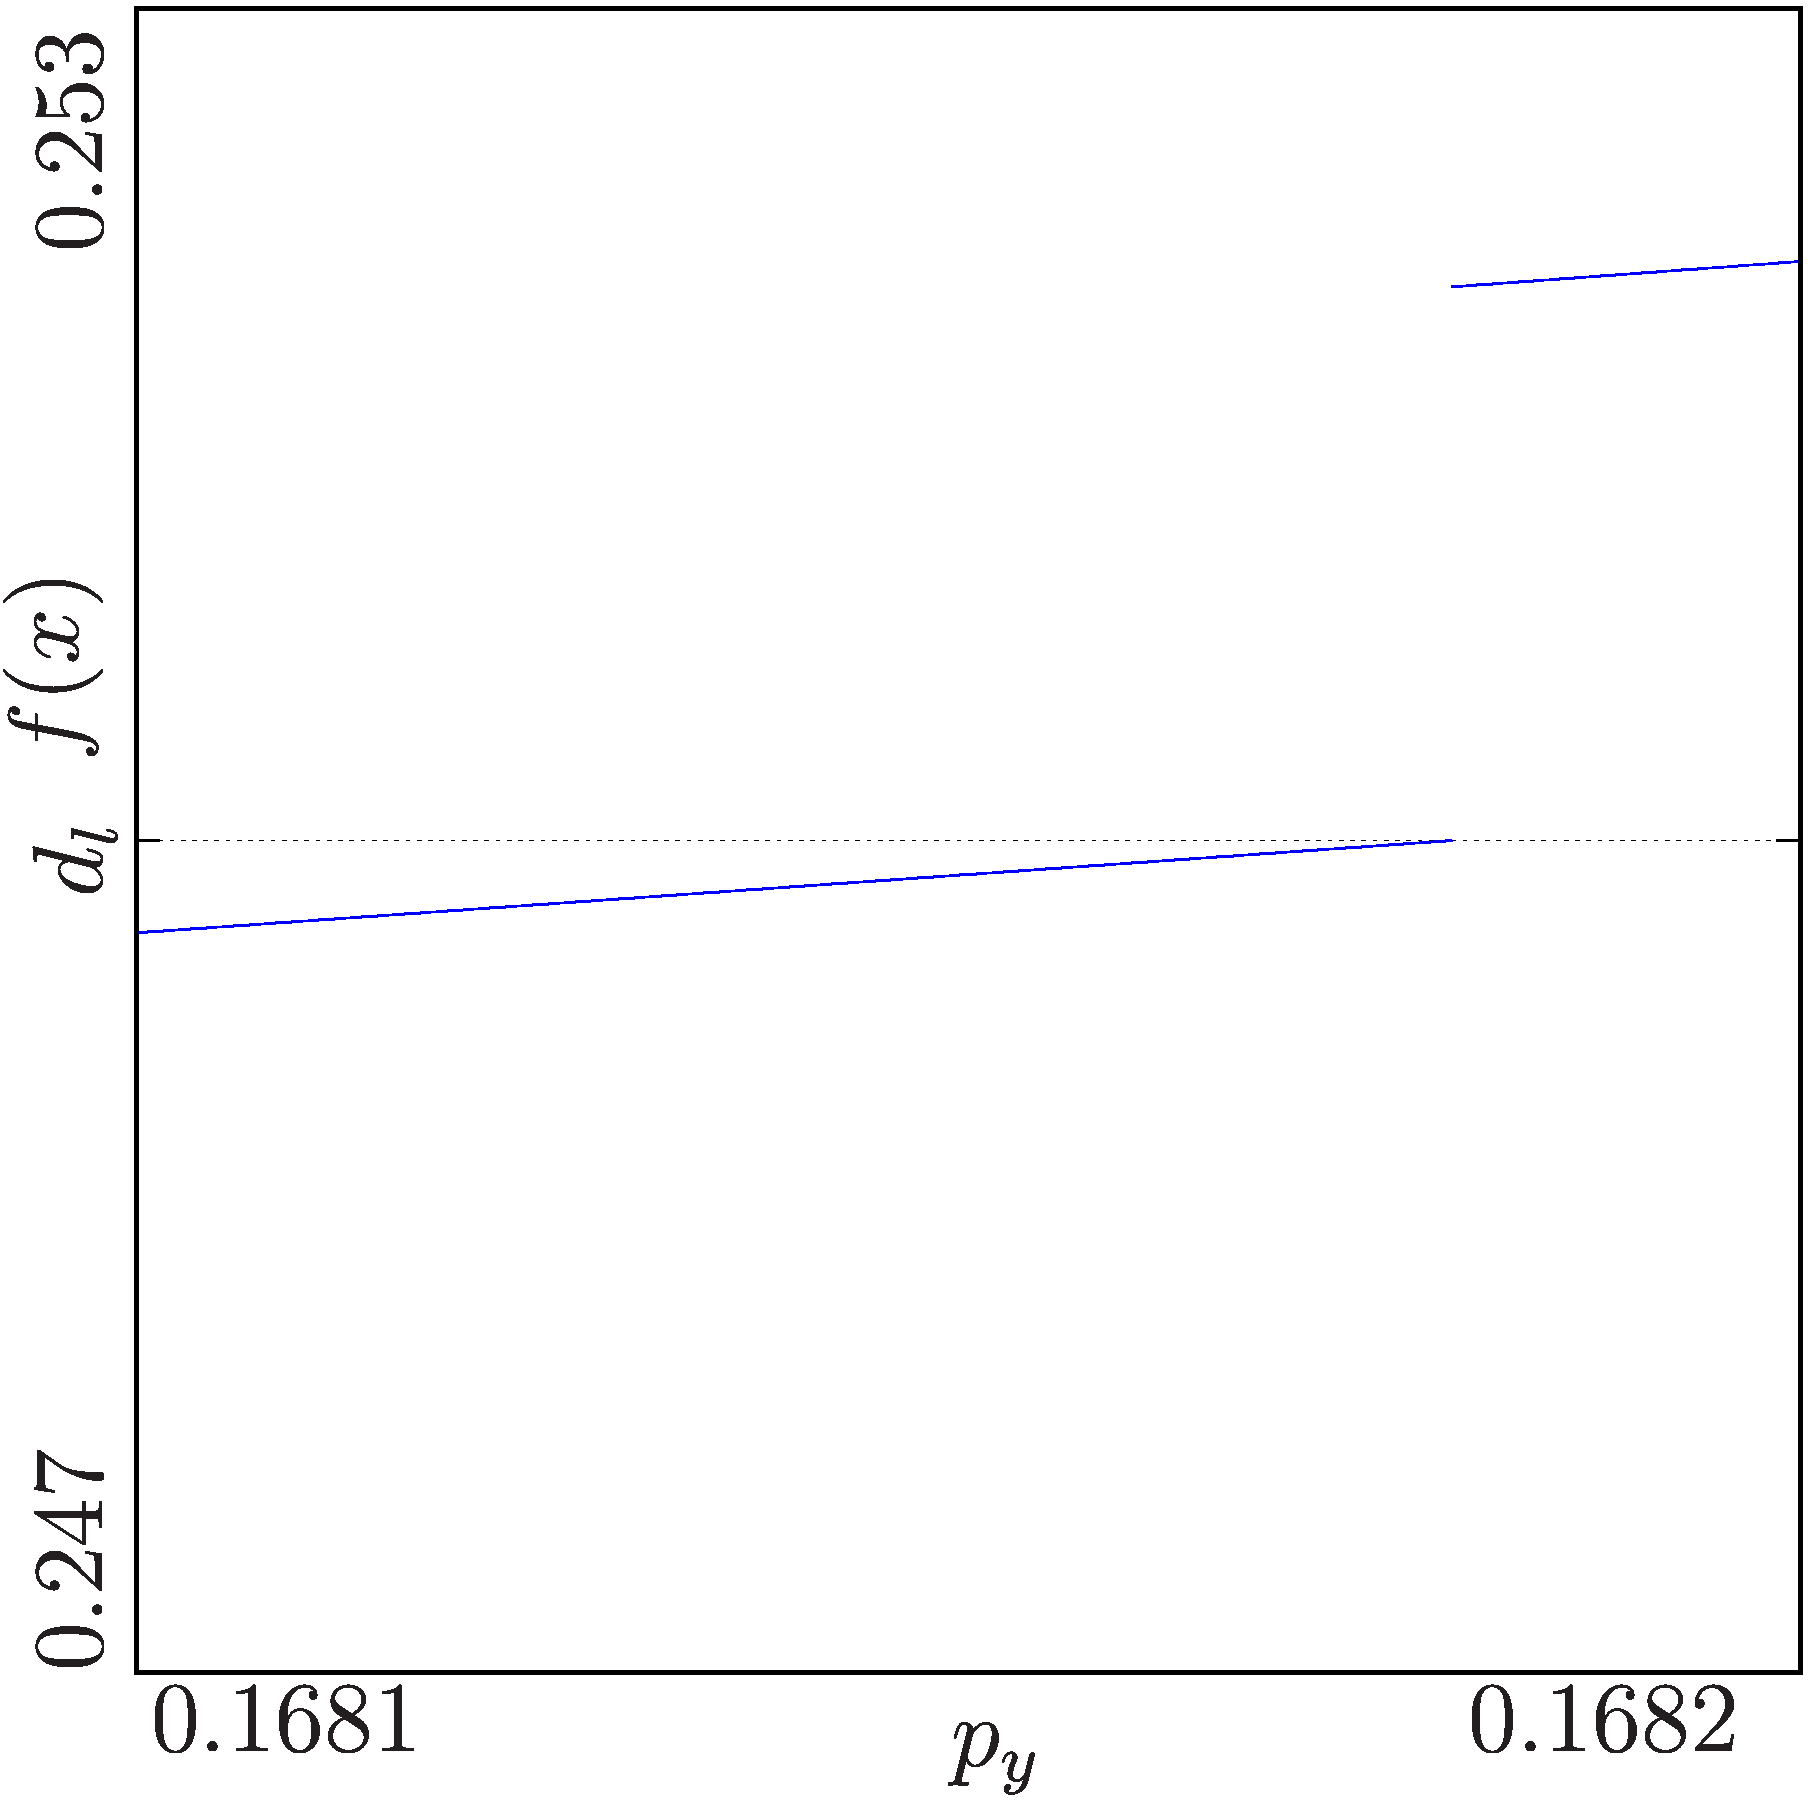
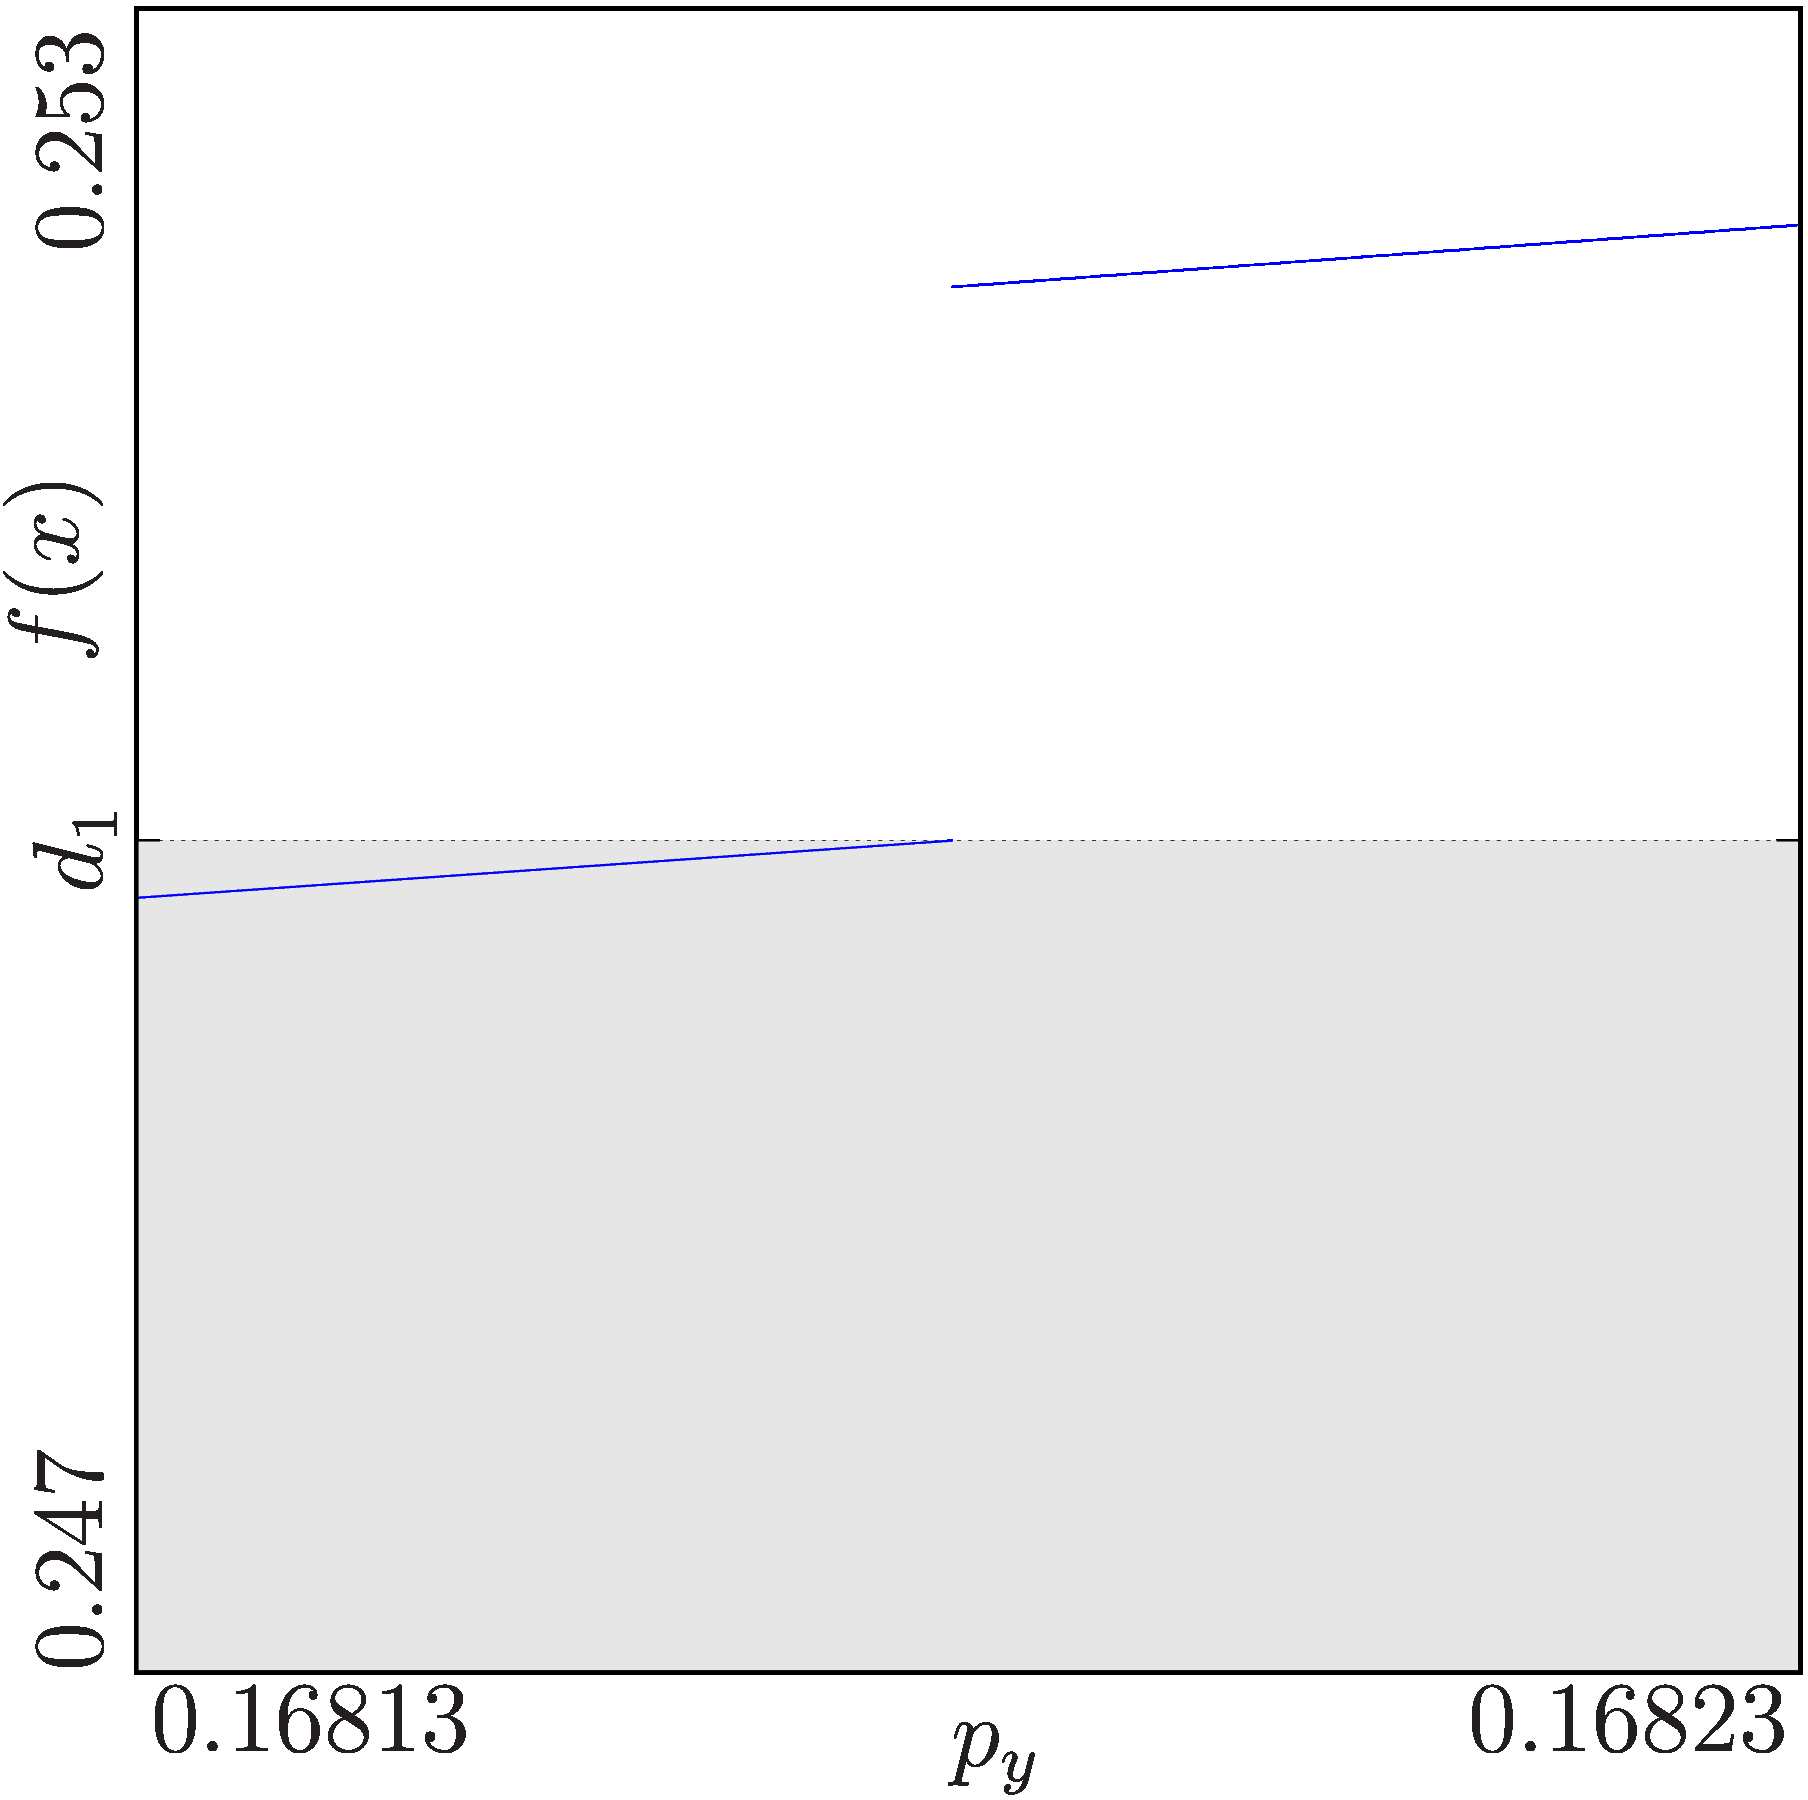
update bifurcation diagrams

diff --git a/Report/Sections/60_FinalModel/50_bifurcations.tex b/Report/Sections/60_FinalModel/50_bifurcations.tex
@@ -31,13 +31,15 @@ So $C_{16}^\uparrow$ means the upper border of the period region, that contains 
 
 \subsubsection{The Boundary $C_{16}^\uparrow$}
 
-When scanning across the upper border of this parameter region, one gets the figure \Cref{fig:final.bifurcation.C.up}
+When scanning across the upper border of this parameter region, one gets the figure \Cref{fig:final.bifurcation.C.up}.
 It is not immediately clear, what kind of bifurcation happens.
 The bifurcation diagram has to be read from left to right, this is also true for all other bifurcation diagrams in this section.
-We are interested in what happens to the stable cycle that exists at the start and causes it to vanish.
-The cycle is near the border $\A\B$ when it vanishes, so we can zoom into that area.
-It is marked red in the bifurcation diagram and pictured in \Cref{fig:bifurcation.C.up.zoomed}.
-It is immediately clear, that this is a border bifurcation with the stable cycle $\A^5\B^3\C^5\D^3$ colliding with the border $d_1$ from the left side, meaning one point on the branch $\A$ collides with this border.
+It does not show the stable cycle of the next parameter region above $\P_{\A^5\B^3\C^5\D^3}$ while the stable cycle $\A^5\B^3\C^5\D^3$ still exists.
+We are interested in what happens to this stable cycle that exists at the start and causes it to vanish.
+The cycle is near the border $d_1$ when it vanishes, so we can zoom into that area.
+It is marked black in the bifurcation diagram and pictured in \Cref{fig:bifurcation.C.up.zoomed}.
+It is immediately clear, that this is a border bifurcation with the stable cycle $\A^5\B^3\C^5\D^3$ colliding with the border $d_1$ from the left side, meaning one point of the cycle on the branch $\A$ collides with this border.
+Analogous, a point of this cycle on branch $\C$ collides with the border $d_3$ because of the symmetry of our function.
 We will write $\BCB_{d_1, d_3}^{\A^5\B^3\C^5\D^3, r}$, which means that this is a border bifurcation at the border $d_1$ and $d_3$ where the points collide from the left (branches $\A$ and $\C$ respectively).
 
 \begin{figure}
@@ -51,7 +53,7 @@ We will write $\BCB_{d_1, d_3}^{\A^5\B^3\C^5\D^3, r}$, which means that this is 
     \begin{subfigure}{0.4\textwidth}
         \centering
         \includegraphics[width=\textwidth]{60_Final/1D_Bif_LCU16_Zoomed/result.png}
-        \caption{Zoomed in at Border $\A\B$}
+        \caption{Zoomed in at Border $d_0$}
         \label{fig:bifurcation.C.up.zoomed}
     \end{subfigure}
     \caption{1D Bifurcation Diagrams of $C_{16}^\uparrow$}
